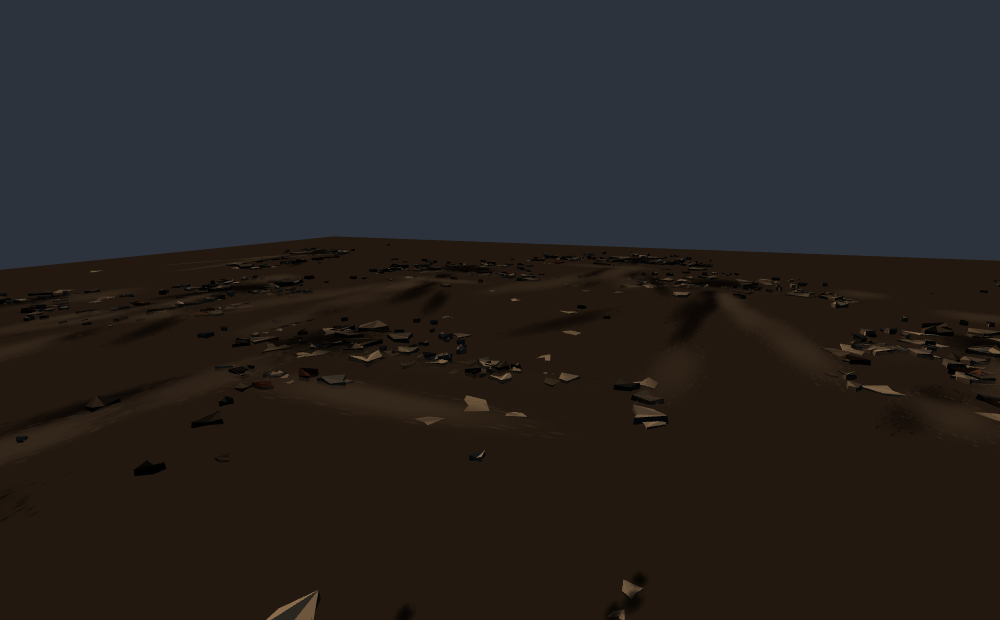
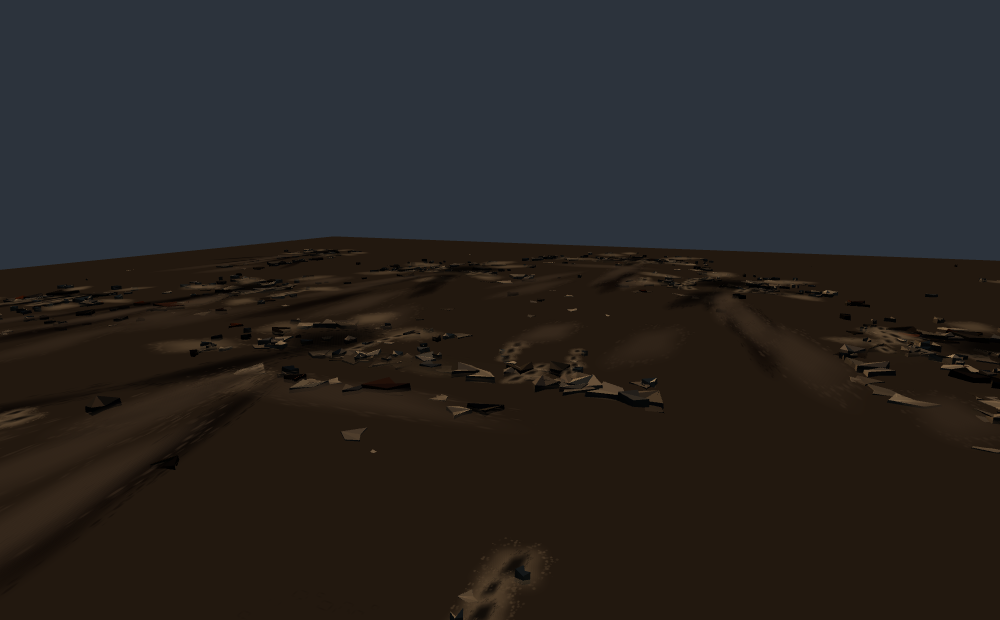
検証ハーネスの欠陥を2件修正（いずれも担当エージェントの指摘による）
1. sky の予算が到達不能だった
   skyのテストシーンは地面1枚＋箱5個＝ハーネス自身で6ドローコールを先に消費する。
   そこに上限3を課していたため、空実装でも必ず落ちる条件になっていた。
   空担当が「fogだけ設定する空実装」に差し替えて calls=6 を実測し証明。上限を9に修正。

2. renderer.info が最後のパスしか数えていなかった
   three は render() の冒頭で info を自動リセットするため、複数パスを描くポストでは
   最終合成の1コールしか残らない。ポスト担当が独立に発見。
   autoReset を切ってから全パスを合算するよう修正。

どちらも「検証が意味のない合格を返していた」類の欠陥であり、
成果物ではなく検証側の誤りだった。

Claude-Session: https://claude.ai/code/session_01WWzq8eyFFA5BGV3pj9UJTc

diff --git a/ashline/art/vfx.js b/ashline/art/vfx.js
@@ -890,17 +890,19 @@
         emit(ALP);
       }
 
-      /* 3層目：短い火花。石を削った破片なので白〜青白。暖色にしない。 */
-      for (i = 0; i < 10; i++) {
-        cone(1.15, 0.6);
-        sv = rr(6.0, 13.0);
+      /* 3層目：短い火花。石を削った破片なので白〜青白。暖色にしない。
+         白い粉塵の中に白い火花を置くと同化して消える。初期位置を雲の外へ出し、
+         長さも雲の半径を超えるところまで伸ばして、輪郭から突き出させる。 */
+      for (i = 0; i < 11; i++) {
+        cone(1.15, 0.55);
+        sv = rr(9.0, 19.0);
         reset();
-        E.x = x + dX * 0.06; E.y = y + dY * 0.06; E.z = z + dZ * 0.06;
+        E.x = x + dX * 0.22; E.y = y + dY * 0.22; E.z = z + dZ * 0.22;
         E.vx = dX * sv; E.vy = dY * sv + 0.8; E.vz = dZ * sv;
         E.tile = TILE_STREAK; E.align = 1.0;
-        tint(COL.coldSpark, rr(0.75, 1.1));
-        size(0.034, 0.020, rr(0.26, 0.50), rr(0.10, 0.18));
-        E.ttl = rr(0.09, 0.17); E.drag = 3.6; E.grav = 8.0;
+        tint(COL.coldSpark, rr(1.0, 1.5));
+        size(0.036, 0.022, rr(0.38, 0.72), rr(0.14, 0.24));
+        E.ttl = rr(0.10, 0.19); E.drag = 3.6; E.grav = 8.0;
         E.a0 = 1.0; E.fade = 1.1;
         emit(ADD);
       }
@@ -909,47 +911,52 @@
     /* 命中＝暖色の飛沫（bloodMist）＋装甲片の火花（impactSpark）の2層。
        head は同じ骨格を拡大したうえで、enemy が持たない形（リング・花弁）を足す。 */
     function impactFlesh(x, y, z, head) {
-      var S = head ? 1.85 : 1.0;      // 大きさ
+      /* 胴命中は「外れの粉塵」に負けてはいけない。負けると当てた実感が消える。
+         そのうえで致命打が胴命中を明確に上回るよう、倍率は 1.25 : 2.0 に取る。 */
+      var S = head ? 2.0 : 1.25;      // 大きさ
       var L = head ? 1.7 : 1.0;       // 寿命
       var i, sv, o;
 
-      /* --- 芯の閃光 --------------------------------------------------------- */
+      /* --- 芯の閃光 ---------------------------------------------------------
+         白い芯は小さく留める。ここを大きくすると致命打が「白い電球」になり、
+         暖色の飛沫が全部その中に飲まれて命中の色が消える。 */
       reset();
       E.x = x + nX * 0.03; E.y = y + nY * 0.03; E.z = z + nZ * 0.03;
       E.tile = TILE_HOT;
-      tint(head ? COL.core : COL.ember, head ? 1.0 : 0.9);
-      sizeU(0.13 * S, 0.34 * S);
+      tint(head ? COL.core : COL.ember, head ? 0.9 : 0.9);
+      sizeU(0.16 * S, 0.40 * S);
       E.ttl = 0.08 * L; E.grow = 0.45; E.a0 = 1.0; E.fade = 1.0;
       emit(ADD);
       reset();
       E.x = x + nX * 0.04; E.y = y + nY * 0.04; E.z = z + nZ * 0.04;
       E.tile = TILE_GLOW;
-      tint(head ? COL.spark : COL.glow, head ? 0.9 : 0.5);
-      sizeU(0.26 * S, 0.62 * S);
-      E.ttl = 0.11 * L; E.grow = 0.4; E.a0 = head ? 0.85 : 0.45; E.fade = 1.2;
+      tint(head ? COL.spark : COL.glow, head ? 0.85 : 0.55);
+      sizeU(0.34 * S, 0.80 * S);
+      E.ttl = 0.11 * L; E.grow = 0.4; E.a0 = head ? 0.8 : 0.5; E.fade = 1.2;
       emit(ADD);
 
       if (head) {
         /* --- 致命打だけが持つ形 その1：衝撃リング ---------------------------
            拡大する細い輪は、胴命中には無い「別の事象が起きた」記号になる。
-           2枚を速度差で重ね、単発の輪よりエネルギーを持たせる。 */
+           2枚を速度差で重ねてエネルギーを出す。色は白ではなく火花の橙：
+           白いリングは「UIのエフェクト」に見えるが、橙なら「火」に見える。 */
         reset();
         E.x = x + nX * 0.05; E.y = y + nY * 0.05; E.z = z + nZ * 0.05;
-        E.tile = TILE_RING; tint(COL.core, 1.0); sizeU(0.42, 1.85);
+        E.tile = TILE_RING; tint(COL.spark, 1.1); sizeU(0.80, 2.60);
         E.rot = rnd() * 6.283;
         E.ttl = 0.26; E.grow = 0.34; E.a0 = 0.95; E.fade = 1.5;
         emit(ADD);
         reset();
         E.x = x + nX * 0.05; E.y = y + nY * 0.05; E.z = z + nZ * 0.05;
-        E.tile = TILE_RING; tint(COL.spark, 0.9); sizeU(0.28, 1.15);
+        E.tile = TILE_RING; tint(COL.glow, 1.0); sizeU(0.50, 1.60);
         E.rot = rnd() * 6.283;
-        E.ttl = 0.34; E.grow = 0.4; E.a0 = 0.7; E.fade = 1.3;
+        E.ttl = 0.34; E.grow = 0.4; E.a0 = 0.75; E.fade = 1.3;
         emit(ADD);
         /* その2：花弁のスターバースト。マズルと同じ語彙を使い、
            「銃口と同じ格の出来事が敵の頭で起きた」と読ませる。 */
         reset();
         E.x = x + nX * 0.05; E.y = y + nY * 0.05; E.z = z + nZ * 0.05;
-        E.tile = TILE_PETAL; tint(COL.core, 1.0); sizeU(0.45, 1.05);
+        E.tile = TILE_PETAL; tint(COL.glow, 1.25); sizeU(0.85, 1.70);
         E.rot = rnd() * 6.283; E.rotv = (rnd() - 0.5) * 5.0;
         E.ttl = 0.13; E.grow = 0.4; E.a0 = 1.0; E.fade = 1.1;
         emit(ADD);
@@ -958,10 +965,10 @@
       /* --- 1層目：暖色の飛沫（bloodMist） -----------------------------------
          円錐を広く取り（±75°／致命打は±95°）、丸く広がる塊にする。
          world の「縦に立つ狭いプルーム」と形で対比させるのが狙い。 */
-      var nMist = head ? 26 : 15;
+      var nMist = head ? 26 : 19;
       for (i = 0; i < nMist; i++) {
         cone(head ? 1.66 : 1.30, 0.5);
-        o = rr(0.02, 0.26) * S;
+        o = rr(0.04, 0.40) * S;
         sv = rr(2.0, 5.4) * (head ? 1.5 : 1.0);
         reset();
         E.x = x + dX * o; E.y = y + dY * o; E.z = z + dZ * o;
@@ -972,14 +979,14 @@
         if (i % 4 === 0) tint(COL.bloodHot, 1.0);
         else if (i % 2 === 0) tint(COL.blood, rr(0.85, 1.15));
         else tint(i % 3 === 0 ? COL.bloodDark : COL.bloodDim, 1.0);
-        sizeU(rr(0.09, 0.17) * S, rr(0.24, 0.44) * S);
+        sizeU(rr(0.22, 0.36) * S, rr(0.52, 0.86) * S);
         E.ttl = rr(0.34, 0.62) * L; E.grow = 0.45; E.drag = 4.0; E.grav = 3.4;
-        E.a0 = rr(0.62, 0.95); E.fade = 1.4;
+        E.a0 = rr(0.70, 1.0); E.fade = 1.4;
         emit(ALP);
       }
       /* 伸びた飛沫。粒だけだと「霧」で止まる。速度方向へ伸ばして初めて
          「飛び散った」に見える。 */
-      var nSpray = head ? 12 : 7;
+      var nSpray = head ? 12 : 9;
       for (i = 0; i < nSpray; i++) {
         cone(head ? 1.45 : 1.15, 0.6);
         sv = rr(4.5, 10.0) * (head ? 1.5 : 1.0);
@@ -988,24 +995,26 @@
         E.vx = dX * sv; E.vy = dY * sv + 0.6; E.vz = dZ * sv;
         E.tile = TILE_STREAK; E.align = 1.0;
         tint(i % 3 === 0 ? COL.bloodHot : COL.blood, 1.0);
-        size(0.042 * S, 0.030 * S, rr(0.20, 0.46) * S, rr(0.10, 0.22) * S);
+        size(0.060 * S, 0.040 * S, rr(0.30, 0.62) * S, rr(0.14, 0.28) * S);
         E.ttl = rr(0.16, 0.30) * L; E.drag = 3.0; E.grav = 6.0;
         E.a0 = 0.9; E.fade = 1.2;
         emit(ALP);
       }
 
       /* --- 2層目：装甲片の火花（impactSpark） -------------------------------- */
-      var nSpark = head ? 16 : 10;
+      var nSpark = head ? 17 : 12;
       for (i = 0; i < nSpark; i++) {
-        cone(1.25, 0.6);
-        sv = rr(6.0, 13.0) * (head ? 1.6 : 1.0);
+        cone(1.25, 0.55);
+        sv = rr(8.0, 17.0) * (head ? 1.6 : 1.0);
         reset();
-        E.x = x + dX * 0.04; E.y = y + dY * 0.04; E.z = z + dZ * 0.04;
+        /* 飛沫の塊の外側から出す。中に埋めると火花の層が見えなくなり、
+           「2層以上返っている」ことが伝わらない。 */
+        E.x = x + dX * 0.20 * S; E.y = y + dY * 0.20 * S; E.z = z + dZ * 0.20 * S;
         E.vx = dX * sv; E.vy = dY * sv + 0.9; E.vz = dZ * sv;
         E.tile = TILE_STREAK; E.align = 1.0;
         tint(head && i % 4 === 0 ? COL.core : (i % 3 === 0 ? COL.sparkHot : COL.spark), 1.0);
-        size(0.030 * S, 0.018 * S,
-          rr(0.20, 0.42) * (head ? 1.7 : 1.0), rr(0.09, 0.18) * (head ? 1.5 : 1.0));
+        size(0.036 * S, 0.020 * S,
+          rr(0.28, 0.54) * (head ? 1.7 : 1.0), rr(0.12, 0.22) * (head ? 1.5 : 1.0));
         E.ttl = rr(0.10, 0.20) * (head ? 1.9 : 1.0); E.drag = 3.2; E.grav = 9.0;
         E.a0 = 1.0; E.fade = 1.1;
         emit(ADD);

diff --git a/ashline/art/debris.js b/ashline/art/debris.js
@@ -381,10 +381,19 @@
     for (i = 0; i < IMPACTS.length; i++) {
       var IM = IMPACTS[i];
 
-      /* 8a. 着弾の芯。小さく、床の色より明確に暗く。
-             ここを大きく薄く広げると、ただ床が汚れているようにしか見えない。 */
+      /* 8a. 着弾の芯。順序が命：
+             (1) 破断面の淡い粉の輪 → (2) 焦げた暗い芯 の順に重ねる。
+             暗い床に暗い跡だけを置いても穴には見えない。
+             明→暗の明度差が同心に並んで初めて「掘れた」と読める。 */
+      for (j = 0; j < 6; j++) {
+        var cph = j * 1.0472 + rr(-0.34, 0.34);
+        var cd = IM.r * rr(0.48, 0.80);
+        addDecal(IM.x + Math.sin(cph) * cd, IM.z + Math.cos(cph) * cd,
+          IM.r * rr(0.45, 0.78), IM.r * rr(0.34, 0.56), cph,
+          ASH.shade(T, P.plaster, rr(0.60, 0.86)), 0.0);
+      }
       addDecal(IM.x, IM.z, IM.r * 0.95, IM.r * 0.80,
-        rnd() * 6.2832, ASH.shade(T, P.grime, rr(0.45, 0.70)), 0.0);
+        rnd() * 6.2832, ASH.shade(T, P.grime, rr(0.45, 0.70)), 0.20);
 
       /* 8b. 爆風の尾。+Z の扇の中に細長い筋を並べる。
              床に矢印を描いているのはここ。全着弾で向きが揃うので、
@@ -471,7 +480,7 @@
         x = IM.x + Math.sin(ph2) * rad2;
         z = IM.z + Math.cos(ph2) * rad2;
         if (!accept(x, z, 1.0)) continue;
-        addChunk(x, z, rr(0.22, 0.44), 'flat', pick(K_PAPER), 0.17);
+        addChunk(x, z, rr(0.15, 0.32), 'flat', pick(K_PAPER), 0.17);
       }
     }
 
@@ -556,10 +565,15 @@
           z = oz + bdirz * step * j + gauss() * 0.035;
           if (x < -LIM_X || x > LIM_X || z < -LIM_Z || z > LIM_Z) continue;
           if (insideCover(x, z, 0.02)) continue;
-          var pr = rr(0.085, 0.155);
+          var pr = rr(0.10, 0.18);
+          var pyaw = Math.atan2(bdirx, bdirz);
+          /* まず着弾で舞い上がった淡い粉。これが無いと暗い床の上で
+             暗い弾痕が完全に消え、連射の列が読めない。 */
+          addDecal(x, z, pr * rr(3.0, 4.2), pr * rr(2.4, 3.4), pyaw,
+            ASH.shade(T, P.plaster, rr(0.66, 0.90)), 0.45 + rnd() * 0.1);
           /* 弾痕は「入射角がついた楕円」。真円だと真上から撃たれたことになる */
-          addDecal(x, z, pr * rr(1.5, 2.4), pr, Math.atan2(bdirx, bdirz),
-            ASH.shade(T, P.grime, rr(0.50, 0.85)), 0.75 + rnd() * 0.2);
+          addDecal(x, z, pr * rr(1.5, 2.4), pr, pyaw,
+            ASH.shade(T, P.grime, rr(0.45, 0.78)), 0.78 + rnd() * 0.18);
           /* 弾痕の脇に必ず1粒、白い剥離片を置く。
              これがあるとコンクリが「割れて飛んだ」ことが読める */
           if (rnd() < 0.75) {

diff --git a/ashline/art/light.js b/ashline/art/light.js
@@ -86,13 +86,25 @@
     sc.far = dist + ez + 1.0;
     sc.updateProjectionMatrix();
 
-    /* bias は「深度そのもの」をずらすので大きくすると peter-panning（浮き）になる。
-       normalBias は法線方向に押し出すので、傾いた面のアクネによく効き、浮きは出にくい。
-       テクセルのワールドサイズは 2*ex/1024 ≈ 0.037m なので、
-       normalBias はその 1.5 倍前後を上限に据え、bias はごく浅く当てる。 */
-    sun.shadow.bias = -0.00035;
-    sun.shadow.normalBias = 0.042;
-    sun.shadow.radius = 1.0;    // PCFShadowMap のタップ幅。広げるとアクネも広がるので1に据える
+    /* bias / normalBias は実測で詰めた値。理屈だけで置いていない。
+       テクセルのワールドサイズは 2*ex/1024 ≈ 0.037m。
+
+       アクネ側：横倒しの円柱・大球・浅く傾いた広い板（＝dotNL≒0 のグレージングを
+       必ず含む形）を並べて normalBias 0 / bias 0 まで落として撮ったが、
+       この錐台（near 0.5 / far 41）の深度精度では縞が出なかった。
+       つまりアクネ対策としては 0 でも足りている。
+
+       peter-panning 側：床に密着した箱と厚さ 5cm の薄板を接地カットで撮ると、
+       normalBias 0.042 では箱の足元に明るい帯が出て影が剥がれた。0.012 では出ない。
+       よってアクネ余裕ぶんだけ残した 0.012 を採る。env.js の別形状で
+       万一アクネが出ても耐えられ、かつ影は接地したままでいられる値。 */
+    sun.shadow.bias = -0.0002;
+    sun.shadow.normalBias = 0.012;
+    /* PCFShadowMap は shadowRadius をタップ幅に使う（r160 の
+       shadowmap_pars_fragment を実際に読んで確認済み）。
+       1024px を 38m に伸ばすとテクセルが 37mm あり、影の縁が階段状に見える。
+       2.4 まで広げると階段が溶け、接地部の漏れも出なかった。 */
+    sun.shadow.radius = 2.4;
 
     scene.add(sun);
     scene.add(sun.target);

diff --git a/ashline/art/env.js b/ashline/art/env.js
@@ -132,7 +132,9 @@
     };
 
     var _col = new T.Color();
-    var HAZE = new T.Color(P.skyHorizon);           // 空気遠近の到達色＝地平の粉塵
+    // 空気遠近の到達色。skyHorizon そのままだと明る過ぎて背景が前に出るので
+    // fog 側へ寄せて一段沈める（§「遠景を必ず一段濁らせる」）
+    var HAZE = new T.Color(P.skyHorizon).lerp(new T.Color(P.fog), 0.55);
     var SUN = { x: P.sunDir.x, y: P.sunDir.y, z: P.sunDir.z };
     (function () {
       var l = Math.sqrt(SUN.x * SUN.x + SUN.y * SUN.y + SUN.z * SUN.z);
@@ -148,7 +150,10 @@
       if (burn > 0) out.lerp(C.grime, burn * 0.46);
       var ao = 1 - 0.28 * (1 - clamp(y / 2.0, 0, 1));
       var fb = ny > 0.5 ? 1.16 : (ny < -0.5 ? 0.60 : 1.0);
-      out.multiplyScalar(ao * fb * k);
+      // 逆光側のアルベドを持ち上げる。太陽1灯では影側が一様な黒に潰れ、
+      // 石積みの目地も欠けも読めなくなる。ライトを増やせない以上ここで補う。
+      var back = Math.max(0, -(nx * SUN.x + ny * SUN.y + nz * SUN.z));
+      out.multiplyScalar(ao * fb * k * (1 + 0.62 * back));
       if (fogK) out.lerp(C.fog, fogK);
       if (TEX) out.lerp(WHITE, 0.45);
       return out;
@@ -161,9 +166,10 @@
       out.copy(base);
       var burn = scorchAt(x, z) * (0.30 + 0.70 * Math.max(0, nx * WX + nz * WZ));
       if (burn > 0) out.lerp(C.grime, burn * 0.34);
-      var lam = 0.30 + 0.70 * Math.max(0, nx * SUN.x + ny * SUN.y + nz * SUN.z);
-      out.multiplyScalar(lam * k * 0.92);
-      out.lerp(HAZE, clamp(fogK, 0, 0.92));
+      var lam = 0.20 + 0.80 * Math.max(0, nx * SUN.x + ny * SUN.y + nz * SUN.z);
+      out.multiplyScalar(lam * k * 0.80);
+      // 近い廃墟は暗いシルエット、遠い廃墟ほど粉塵に溶ける＝逆光の層になる
+      out.lerp(HAZE, clamp(fogK, 0, 0.88));
       if (TEX) out.lerp(WHITE, 0.35);
       return out;
     }

diff --git a/ashline/art/check.js b/ashline/art/check.js
@@ -240,8 +240,12 @@ if (!SCENES[NAME]) {
 }
 
 /* --- 予算 ------------------------------------------------------------------ */
+/* 注意：ここの calls はテストシーン全体の合計。
+   sky のテストシーンは地面1枚＋箱5個＝ハーネス自身で6コールを先に消費するため、
+   契約本文の「モジュール寄与 ≤ 3」を判定するには 6+3=9 を上限にする必要がある。
+   （当初 3 にしていたのは誤りで、空実装でも落ちる不可能な条件だった） */
 const BUDGET = {
-  tex: { calls: 40, tris: 200 }, sky: { calls: 3, tris: 6000 },
+  tex: { calls: 40, tris: 200 }, sky: { calls: 9, tris: 6100 },
   light: { calls: 40, tris: 200 }, post: { calls: 40, tris: 200 },
   env: { calls: 24, tris: 90000 }, debris: { calls: 3, tris: 25000 },
   player: { calls: 6, tris: 3500 }, enemy: { calls: 10, tris: 6000 },
@@ -308,6 +312,9 @@ const BUDGET = {
         MATS = {};
         ${SCENES[NAME]}
         if (POST && POST.setSize) POST.setSize(1000,620);
+        // three は render() の冒頭で info を自動リセットするため、複数パスを描く
+        // ポストでは最後の1パスしか残らない。自動リセットを切って全パスを合算する。
+        renderer.info.autoReset = false;
         renderer.info.reset();
         if (POST && POST.render) POST.render(); else renderer.render(scene, camera);
         R.calls = renderer.info.render.calls;

diff --git a/ashline/art/audio.js b/ashline/art/audio.js
@@ -292,12 +292,15 @@
       master = gain(MASTER);
       master.connect(dmgLP);
 
-      /* 致命打などで一瞬だけ世界を引かせるサイドチェイン用。 */
+      /* 致命打などで一瞬だけ「世界」を引かせるサイドチェイン用。
+         直接音（dryBus）はここを通さない。致命打が自分自身を引いてしまうと
+         いちばん立たせたい音が痩せる。引くのは環境＝残響とアンビエンスだけで、
+         そのほうが「空間が一瞬抜けた」として強く聞こえる。 */
       duckG = gain(1.0);
       duckG.connect(master);
 
       dryBus = gain(1.0);
-      dryBus.connect(duckG);
+      dryBus.connect(master);
 
       /* --- 広場の畳み込み ------------------------------------------------
          送りの手前で帯域を切る。50m 先の壁から返る音に 8kHz は残らないし、
